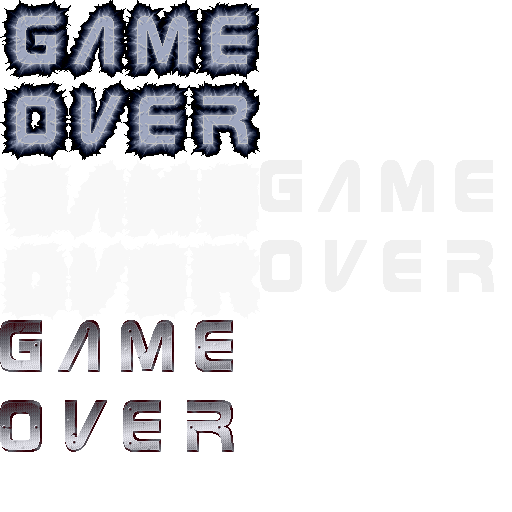
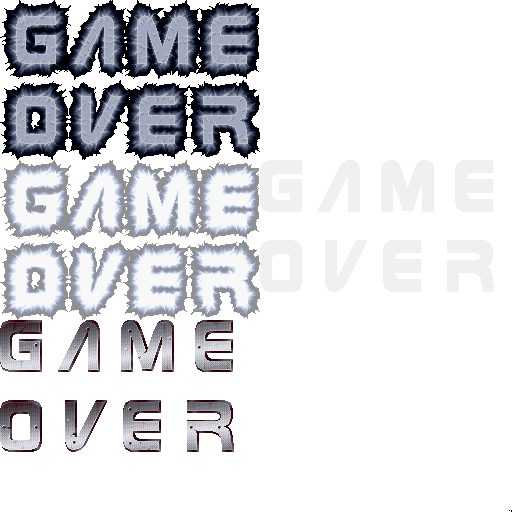
Update ModuleGameOver

Changed region(s): [[0.0, 0.3125, 0.5312, 0.625]]

diff --git a/Code/LastResortCode/ModuleGameOver.cpp b/Code/LastResortCode/ModuleGameOver.cpp
@@ -9,27 +9,51 @@
 #include "ModuleBackground.h" //REMEMBER DELETE
 #include "ModuleGameOver.h"
 
-#define METAL_GAMEOVER 0
+
 #define MAX_ALPHA 255
+#define MIN_ALPHA 0
 
 ModuleGameOver::ModuleGameOver() {
-	//White
-	white.x = 0;
-	white.y = 0;
-	white.w = SCREEN_WIDTH* SCREEN_SIZE;
-	white.h = SCREEN_HEIGHT* SCREEN_SIZE;
-	//Metal
-	gameOverAnim.PushBack({ 0, 320, 234, 132 });
+	//White Rect
+	white_rect.x = 0;
+	white_rect.y = 0;
+	white_rect.w = SCREEN_WIDTH* SCREEN_SIZE;
+	white_rect.h = SCREEN_HEIGHT* SCREEN_SIZE;
+	//Black Rect
+	black_rect.x = 0;
+	black_rect.y = 0;
+	black_rect.w = SCREEN_WIDTH* SCREEN_SIZE;
+	black_rect.h = SCREEN_HEIGHT* SCREEN_SIZE;
+	//Normal GameOver
+	go_rect.x = 0;
+	go_rect.y = 0;
+	go_rect.w = 260;
+	go_rect.h = 160;
+	//White GameOver 
+	white_go_rect.x = 0;
+	white_go_rect.y = 0;
+	white_go_rect.w = 260;
+	white_go_rect.h = 160;
+	//Metal GameOver
+	metal_go_rect.x = 0;
+	metal_go_rect.y = 320;
+	metal_go_rect.w = 234;
+	metal_go_rect.h = 132;
+	//White Metal GameOver
 
-	whiteAlpha = MAX_ALPHA;
+	whiteAlpha = MIN_ALPHA;
+	white_goAlpha = MIN_ALPHA;
 }
 ModuleGameOver:: ~ModuleGameOver() {}
 
 bool ModuleGameOver::Start() {
 	LOG("Loading ModuleGameOver assets");
 	bool ret = true;
+	init_time = SDL_GetTicks(); 
 	//textures-----------------------------------------------------------------------
-	gameover = App->textures->Load("Assets/GameOver.png");
+	goTex = App->textures->Load("Assets/GameOver.png");
+	white_goTex = App->textures->Load("Assets/WhiteGameOver.png");
+	SDL_SetTextureBlendMode(white_goTex, SDL_BLENDMODE_ADD);
 	//audios------------------------------------------------------------------------
 
 	//modules-----------------------------------------------------------------------
@@ -42,7 +66,8 @@ bool ModuleGameOver::CleanUp() {
 
 	LOG("Unloading ModuleGameOver assets");
 	//textures----------------------------------------------------------------------
-	App->textures->Unload(gameover);
+	App->textures->Unload(goTex);
+	App->textures->Unload(white_goTex);
 	//audios------------------------------------------------------------------------
 
 	//modules-----------------------------------------------------------------------
@@ -52,18 +77,35 @@ bool ModuleGameOver::CleanUp() {
 }
 
 update_status ModuleGameOver::Update() {
+	//Timer---------------------------------------------------------------------
+	current_time = SDL_GetTicks() - init_time;
+	//Black Rect (background)---------------------------------------------------
+	SDL_SetRenderDrawColor(App->render->renderer, 0, 0, 0, 255);
+	SDL_RenderFillRect(App->render->renderer, &black_rect);
+	//Normal GameOver-----------------------------------------------------------
+	App->render->Blit(goTex, 19, 32, &go_rect, 1.0);
+	//Metal GameOver-------------------------------------------------------------
+	/*App->render->Blit(goTex, 35, 46, , 1.0);*/
 
-	//Metal GameOver
-	App->render->Blit(gameover, 35, 46, &gameOverAnim.frames[METAL_GAMEOVER], 1.0);
-
+	//White GameOver------------------------------------------------------------
+	SDL_SetTextureAlphaMod(white_goTex, (int) white_goAlpha);
+	App->render->Blit(white_goTex, 19, 32, &white_go_rect, 1.0);
+	if (white_goAlpha < MAX_ALPHA) {
+		white_goAlpha= white_goAlpha+ 0.9f;
+	}
+	//White Rect----------------------------------------------------------------
+	if (current_time >= 1400) {
+		SDL_SetRenderDrawColor(App->render->renderer, 255, 255, 255, (int)whiteAlpha);
+		SDL_RenderFillRect(App->render->renderer, &white_rect);
+		whiteAlpha = whiteAlpha + 4.0f;
+		if (whiteAlpha > MAX_ALPHA) {
+			whiteAlpha = MAX_ALPHA;
+		}
+	}
+	//---------------------------------------------------------------------------
 	if (App->input->keyboard[SDL_SCANCODE_G]) {
 		App->fade->FadeToBlack(this, App->background, 0.5f);
 	}
-
-	//White Rect 
-	SDL_SetRenderDrawColor(App->render->renderer, 255, 255, 255, whiteAlpha);
-	SDL_RenderFillRect(App->render->renderer, &white);
-	--whiteAlpha;
 
 	return UPDATE_CONTINUE;
 }

diff --git a/Code/LastResortCode/ModuleGameOver.h b/Code/LastResortCode/ModuleGameOver.h
@@ -16,10 +16,17 @@ public:
 	update_status Update();
 	bool CleanUp();
 private:
-	int whiteAlpha;
-	SDL_Texture* gameover = nullptr;
-	SDL_Rect white;
-	Animation gameOverAnim;
+	int current_time = 0;
+	int init_time = 0;
+	float whiteAlpha;
+	float white_goAlpha;
+	SDL_Texture* goTex = nullptr;
+	SDL_Texture* white_goTex = nullptr;
+	SDL_Rect white_rect;
+	SDL_Rect black_rect;
+	SDL_Rect metal_go_rect;
+	SDL_Rect white_go_rect;
+	SDL_Rect go_rect;
 
 };
 #endif // !_ModuleGameOver_H_

diff --git a/Code/LastResortCode/ModuleBackground.cpp b/Code/LastResortCode/ModuleBackground.cpp
@@ -453,7 +453,7 @@ update_status ModuleBackground::Update()
 	}
 	//pass to game over
 	if (App->input->keyboard[SDL_SCANCODE_G]) {
-		App->fade->FadeToBlack(this, App->gameover, 0.5f); 
+		App->fade->FadeToBlack(this, App->gameover, 2.8f); 
 	}
 
 	return UPDATE_CONTINUE;
